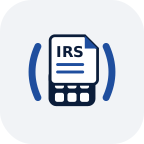
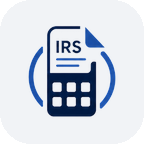
Usa o logotipo real fornecido pelo Dani, não uma recriação vetorial
Substitui o símbolo redesenhado à mão por um recorte de alta fidelidade
da arte original (Public/): assets/mark.png (fundo transparente, para
landing e onboarding) e assets/mark-badge.png (badge com fundo claro,
para o cabeçalho escuro da app e os ícones PWA). Ícones e favicons
regenerados a partir desta arte; symbol.js passa a devolver <img> em
vez de SVG inline.

Changed region(s): [[0.1944, 0.1667, 0.8056, 0.8333]]

diff --git a/app/ui/components/symbol.js b/app/ui/components/symbol.js
@@ -1,35 +1,14 @@
 // ui/components/symbol.js
-// Símbolo de marca — documento fiscal ("IRS") sobre uma calculadora,
-// ladeado por dois arcos que sugerem "antecipação" (o resultado já
-// calculado antes do círculo fiscal fechar). É o único elemento gráfico
-// de assinatura da marca: usar com moderação, sem duplicar como padrão
-// decorativo. Geometria e cores seguem o logotipo de referência (ver
-// BRAND.md) — cores fixas, não variam consoante o fundo.
+// Símbolo de marca — o logotipo fornecido pelo Dani (documento fiscal
+// "IRS" sobre uma calculadora, ladeado por dois arcos que sugerem
+// "antecipação"). A partir desta versão usa-se diretamente a arte
+// original (assets/mark.png), não uma recriação vetorial — ver
+// BRAND.md §4. Caminho relativo assume que o marcador é renderizado
+// dentro de app/index.html.
 
 export function simboloSVG({ size = 32 } = {}) {
-  return `
-    <svg viewBox="0 0 100 100" width="${size}" height="${size}" role="img" aria-label="Antecipa">
-      <path d="M18,26 Q7,50 18,74" fill="none" stroke="#1F4E9E" stroke-width="6.5" stroke-linecap="round"/>
-      <path d="M82,26 Q93,50 82,74" fill="none" stroke="#1F4E9E" stroke-width="6.5" stroke-linecap="round"/>
-
-      <rect x="28" y="47" width="44" height="35" rx="7" fill="#0B1D3A"/>
-      <g fill="#FFFFFF">
-        <rect x="34" y="57" width="8.5" height="8.5" rx="2"/>
-        <rect x="45.75" y="57" width="8.5" height="8.5" rx="2"/>
-        <rect x="57.5" y="57" width="8.5" height="8.5" rx="2"/>
-        <rect x="34" y="69.5" width="8.5" height="8.5" rx="2"/>
-        <rect x="45.75" y="69.5" width="8.5" height="8.5" rx="2"/>
-        <rect x="57.5" y="69.5" width="8.5" height="8.5" rx="2"/>
-      </g>
-
-      <path d="M34,16 H62 L74,28 V57 A4.5,4.5 0 0 1 69.5,61.5 H34 A4.5,4.5 0 0 1 29.5,57 V20.5 A4.5,4.5 0 0 1 34,16 Z" fill="#FFFFFF" stroke="#0B1D3A" stroke-width="2.6"/>
-      <path d="M62,16 L74,28 H62 Z" fill="#1F4E9E"/>
-
-      <text x="48" y="35.5" font-family="Inter, Arial, sans-serif" font-weight="800" font-size="14" fill="#0B1D3A" text-anchor="middle">IRS</text>
-      <line x1="36.5" y1="43" x2="60" y2="43" stroke="#1F4E9E" stroke-width="2.8" stroke-linecap="round"/>
-      <line x1="36.5" y1="50" x2="60" y2="50" stroke="#1F4E9E" stroke-width="2.8" stroke-linecap="round"/>
-    </svg>
-  `;
+  const h = Math.round(size * 1.03); // a arte original é ligeiramente mais alta que larga
+  return `<img src="../assets/mark.png" alt="Antecipa" width="${size}" height="${h}" style="display:inline-block;object-fit:contain;" />`;
 }
 
 /** Lockup horizontal — símbolo + wordmark, para cabeçalhos e a landing. */

diff --git a/app/index.html b/app/index.html
@@ -15,27 +15,11 @@
   <div id="app">
     <header class="app-header">
       <div class="app-header__row">
-        <!-- Variante "sobre escuro": a calculadora usa o azul em vez do
-             navy-deep, senão desaparece contra o fundo --navy-deep do
-             cabeçalho (ver secção 4 do BRAND.md). -->
-        <svg class="brand-mark" viewBox="0 0 100 100" role="img" aria-label="Antecipa">
-          <path d="M18,26 Q7,50 18,74" fill="none" stroke="#5B8DD9" stroke-width="6.5" stroke-linecap="round"/>
-          <path d="M82,26 Q93,50 82,74" fill="none" stroke="#5B8DD9" stroke-width="6.5" stroke-linecap="round"/>
-          <rect x="28" y="47" width="44" height="35" rx="7" fill="#1F4E9E"/>
-          <g fill="#FFFFFF">
-            <rect x="34" y="57" width="8.5" height="8.5" rx="2"/>
-            <rect x="45.75" y="57" width="8.5" height="8.5" rx="2"/>
-            <rect x="57.5" y="57" width="8.5" height="8.5" rx="2"/>
-            <rect x="34" y="69.5" width="8.5" height="8.5" rx="2"/>
-            <rect x="45.75" y="69.5" width="8.5" height="8.5" rx="2"/>
-            <rect x="57.5" y="69.5" width="8.5" height="8.5" rx="2"/>
-          </g>
-          <path d="M34,16 H62 L74,28 V57 A4.5,4.5 0 0 1 69.5,61.5 H34 A4.5,4.5 0 0 1 29.5,57 V20.5 A4.5,4.5 0 0 1 34,16 Z" fill="#FFFFFF" stroke="#0B1D3A" stroke-width="2.6"/>
-          <path d="M62,16 L74,28 H62 Z" fill="#5B8DD9"/>
-          <text x="48" y="35.5" font-family="Inter, Arial, sans-serif" font-weight="800" font-size="14" fill="#0B1D3A" text-anchor="middle">IRS</text>
-          <line x1="36.5" y1="43" x2="60" y2="43" stroke="#5B8DD9" stroke-width="2.8" stroke-linecap="round"/>
-          <line x1="36.5" y1="50" x2="60" y2="50" stroke="#5B8DD9" stroke-width="2.8" stroke-linecap="round"/>
-        </svg>
+        <!-- Sobre o fundo escuro do cabeçalho usa-se a versão em badge
+             (fundo claro arredondado) do logotipo, tal como a arte de
+             referência mostra para o ícone da app — ver secção 4 do
+             BRAND.md. -->
+        <img class="brand-mark" src="../assets/mark-badge.png" alt="Antecipa" width="32" height="32" />
         <span class="brand-wordmark">antecipa</span>
       </div>
     </header>

diff --git a/index.html b/index.html
@@ -21,24 +21,7 @@
   <header class="site-header">
     <div class="wrap site-header__row">
       <a href="./" class="lockup" aria-label="Antecipa">
-        <svg width="28" height="28" viewBox="0 0 100 100" role="img" aria-hidden="true">
-          <path d="M18,26 Q7,50 18,74" fill="none" stroke="#1F4E9E" stroke-width="6.5" stroke-linecap="round"/>
-          <path d="M82,26 Q93,50 82,74" fill="none" stroke="#1F4E9E" stroke-width="6.5" stroke-linecap="round"/>
-          <rect x="28" y="47" width="44" height="35" rx="7" fill="#0B1D3A"/>
-          <g fill="#FFFFFF">
-            <rect x="34" y="57" width="8.5" height="8.5" rx="2"/>
-            <rect x="45.75" y="57" width="8.5" height="8.5" rx="2"/>
-            <rect x="57.5" y="57" width="8.5" height="8.5" rx="2"/>
-            <rect x="34" y="69.5" width="8.5" height="8.5" rx="2"/>
-            <rect x="45.75" y="69.5" width="8.5" height="8.5" rx="2"/>
-            <rect x="57.5" y="69.5" width="8.5" height="8.5" rx="2"/>
-          </g>
-          <path d="M34,16 H62 L74,28 V57 A4.5,4.5 0 0 1 69.5,61.5 H34 A4.5,4.5 0 0 1 29.5,57 V20.5 A4.5,4.5 0 0 1 34,16 Z" fill="#FFFFFF" stroke="#0B1D3A" stroke-width="2.6"/>
-          <path d="M62,16 L74,28 H62 Z" fill="#1F4E9E"/>
-          <text x="48" y="35.5" font-family="Inter, Arial, sans-serif" font-weight="800" font-size="14" fill="#0B1D3A" text-anchor="middle">IRS</text>
-          <line x1="36.5" y1="43" x2="60" y2="43" stroke="#1F4E9E" stroke-width="2.8" stroke-linecap="round"/>
-          <line x1="36.5" y1="50" x2="60" y2="50" stroke="#1F4E9E" stroke-width="2.8" stroke-linecap="round"/>
-        </svg>
+        <img src="assets/mark.png" alt="" width="27" height="28" style="object-fit:contain;" />
         <span class="lockup__word">antecipa</span>
       </a>
       <a href="app/" class="btn btn-secondary">Abrir o Antecipa</a>

diff --git a/app/sw.js b/app/sw.js
@@ -8,7 +8,7 @@
 // Bump da constante CACHE_NAME sempre que style.css/index.html ou
 // qualquer módulo mudar, para limpar caches antigas na ativação.
 
-const CACHE_NAME = "antecipa-v1.6";
+const CACHE_NAME = "antecipa-v1.7";
 
 const ASSETS_ESTATICOS = [
   "./",
@@ -34,6 +34,8 @@ const ASSETS_ESTATICOS = [
   "./ui/components/confirmacao.js",
   "../icons/icon-192.png",
   "../icons/icon-512.png",
+  "../assets/mark.png",
+  "../assets/mark-badge.png",
 ];
 
 self.addEventListener("install", (event) => {

diff --git a/BRAND.md b/BRAND.md
@@ -75,24 +75,31 @@ antes do documento oficial fechar. É o único elemento gráfico de
 assinatura da marca — não se introduzem outros ícones decorativos ao
 lado dele.
 
-Fonte: `assets/mark.svg` (mark isolado) e `icons/icon-source.svg`
-(versão em badge, com fundo `--paper` e cantos arredondados, usada
-para os ícones PWA).
+*Nota de versão*: a partir desta versão usa-se diretamente a arte
+original fornecida pelo Dani (`Public/`), não uma recriação vetorial
+— para máxima fidelidade ao logotipo desenhado, o símbolo é a imagem
+recortada dessa arte, não um SVG redesenhado à mão.
 
-- **Cores fixas**: ao contrário da versão anterior, o símbolo não se
-  adapta via `currentColor` — os arcos e a folha de dados usam sempre
-  `--navy-mid`/`--brass-light`, a calculadora usa `--navy-deep`.
-- **Variante sobre fundo escuro**: quando o símbolo aparece sobre
-  `--navy-deep` (cabeçalho da app), a calculadora troca para
-  `--navy-mid`/`--brass-light` em vez de `--navy-deep`, senão
-  desaparece contra o fundo — ver o `<svg class="brand-mark">` em
-  `app/index.html`.
-- **Uso**: cabeçalho da app (32px), landing (28px, em lockup com a
-  wordmark), ícones PWA (72–512px), favicon (16/32px — a sigla "IRS"
-  deixa de ser legível a este tamanho, o que é esperado).
+Fonte: `assets/mark.png` (recorte de fundo transparente, para usar
+sobre fundos claros — landing, onboarding) e `assets/mark-badge.png`
+(o mesmo símbolo sobre um badge arredondado com fundo `--paper`,
+usado sempre que o fundo é escuro ou é preciso um ícone autocontido —
+cabeçalho da app, ícones PWA, favicon). Os ícones em `icons/` são
+gerados a partir de `assets/mark.png` compondo o mesmo badge a cada
+tamanho.
+
+- **Cores fixas**: o símbolo não muda de cor consoante o contexto —
+  para usar sobre fundo escuro, usa-se sempre a variante em badge
+  (`mark-badge.png`), nunca uma recoloração do símbolo em si.
+- **Uso**: cabeçalho da app (badge, 32px), landing (mark direto,
+  28px, em lockup com a wordmark), onboarding (mark direto, 88px),
+  ícones PWA (72–512px, badge), favicon (16/32px badge — a sigla
+  "IRS" deixa de ser legível a este tamanho, o que é esperado).
 - **Não fazer**: não duplicar o símbolo lado a lado como padrão
   decorativo; não o rodar; não o usar como marca de água exceto no PDF
-  para contabilista (onde a marca de água é texto, não o símbolo).
+  para contabilista (onde a marca de água é texto, não o símbolo); não
+  recriar a arte à mão — qualquer atualização ao logotipo parte de
+  novos ficheiros em `Public/`.
 
 ---
 

diff --git a/README.md b/README.md
@@ -52,7 +52,7 @@ Parsing universal por IA, monetização/paywall, notificações, navegação mul
 antecipa/
 ├── index.html, landing.css          — landing pública (raiz do site)
 ├── icons/                            — ícones PWA + favicons, partilhados por landing e app
-├── assets/mark.svg                   — fonte do símbolo de marca
+├── assets/mark.png, mark-badge.png     — logotipo (arte fornecida pelo Dani)
 ├── BRAND.md                          — identidade de marca (paleta, tipografia, voz, uso do símbolo)
 └── app/                               — a PWA instalável
     ├── index.html, manifest.json, sw.js, style.css, app.js
